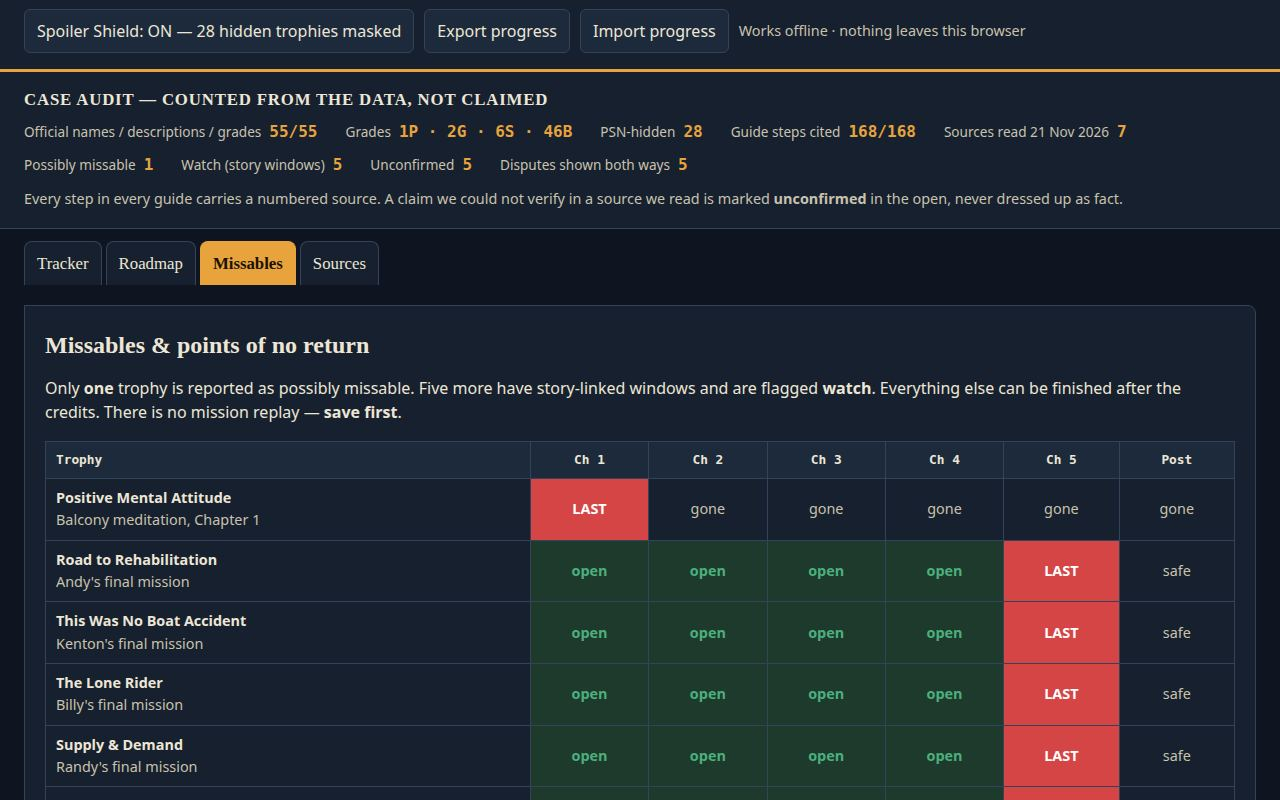
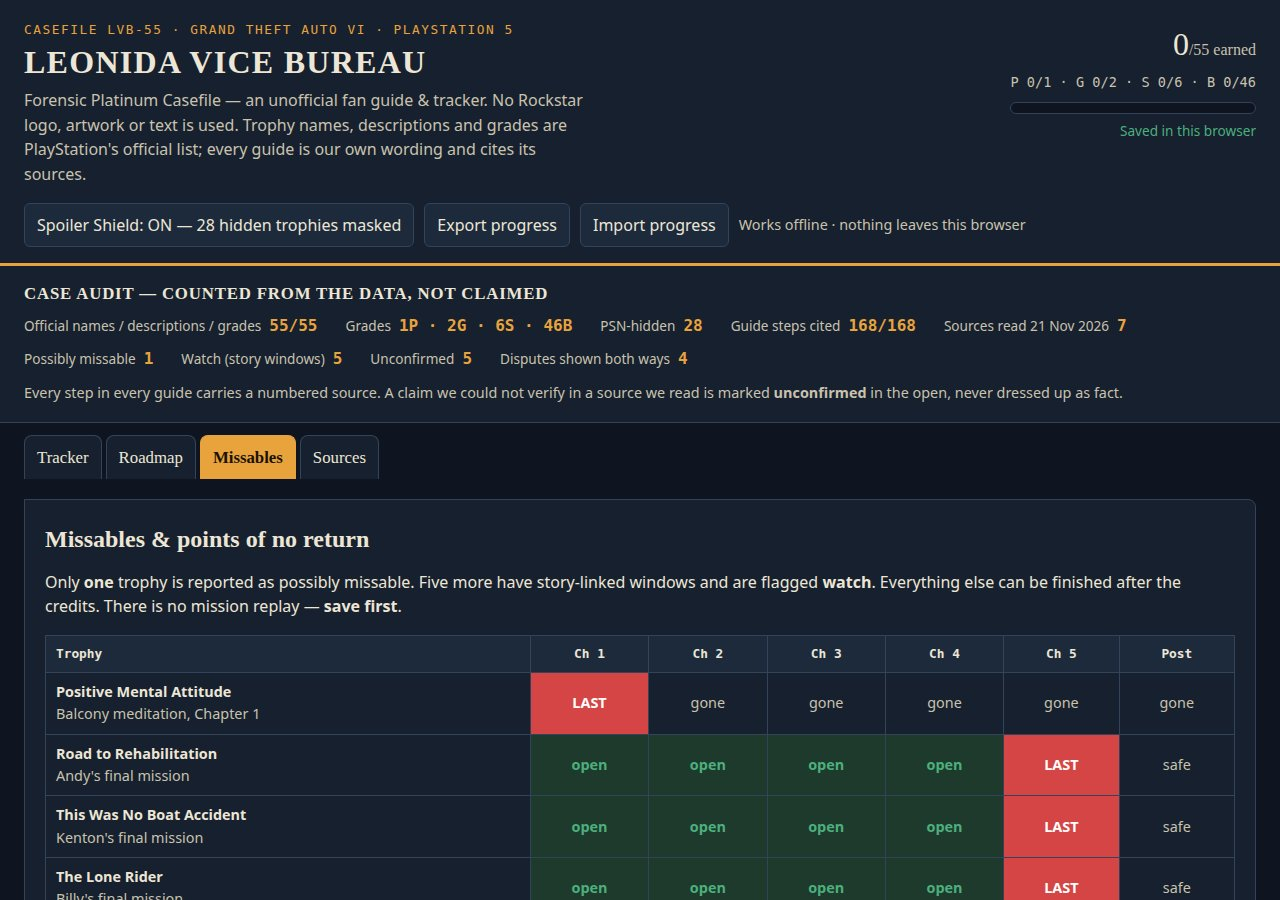
Fix chip count duplication and dispute-count mismatch
Chips rendered label + count where the label already contained the
number (All 55 55, Online 0 0, PSN-hidden 28 28). Labels are now plain
words; renderChips appends the count exactly once (All 55, Online 0,
PSN-hidden 28, Disputed 4). Audit strip counted dispute topics (5);
it now counts disputed trophies like the chip (4). PMA's two dispute
topics stay explained inside its Diff Card. Screenshots regenerated.

diff --git a/app/app.js b/app/app.js
@@ -64,15 +64,15 @@ function renderAudit() {
     ['Possibly missable', '1'],
     ['Watch (story windows)', '5'],
     ['Unconfirmed', '5'],
-    ['Disputes shown both ways', '5'],
+    ['Disputes shown both ways', '4'],
   ];
   $('auditList').innerHTML = items.map(([k, v]) => `<div><dt>${esc(k)}</dt><dd>${esc(v)}</dd></div>`).join('');
 }
 
 const CHIPS = [
-  ['all', 'All 55'], ['story', 'Story'], ['missable', 'Missable'], ['collectibles', 'Collectibles'],
+  ['all', 'All'], ['story', 'Story'], ['missable', 'Missable'], ['collectibles', 'Collectibles'],
   ['activities', 'Activities'], ['side', 'Side'], ['crime', 'Crime'], ['world', 'World'],
-  ['online', 'Online 0'], ['hidden', 'PSN-hidden 28'], ['disputed', 'Disputed'], ['unconfirmed', 'Unconfirmed'],
+  ['online', 'Online'], ['hidden', 'PSN-hidden'], ['disputed', 'Disputed'], ['unconfirmed', 'Unconfirmed'],
   ['notearned', 'Not earned'],
 ];
 function chipCount(name) {
